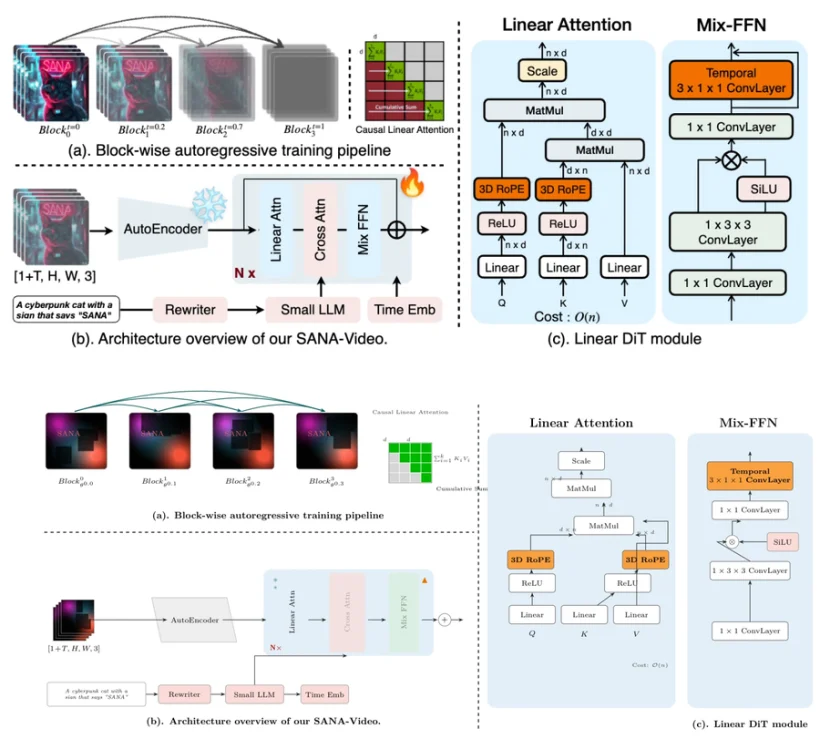
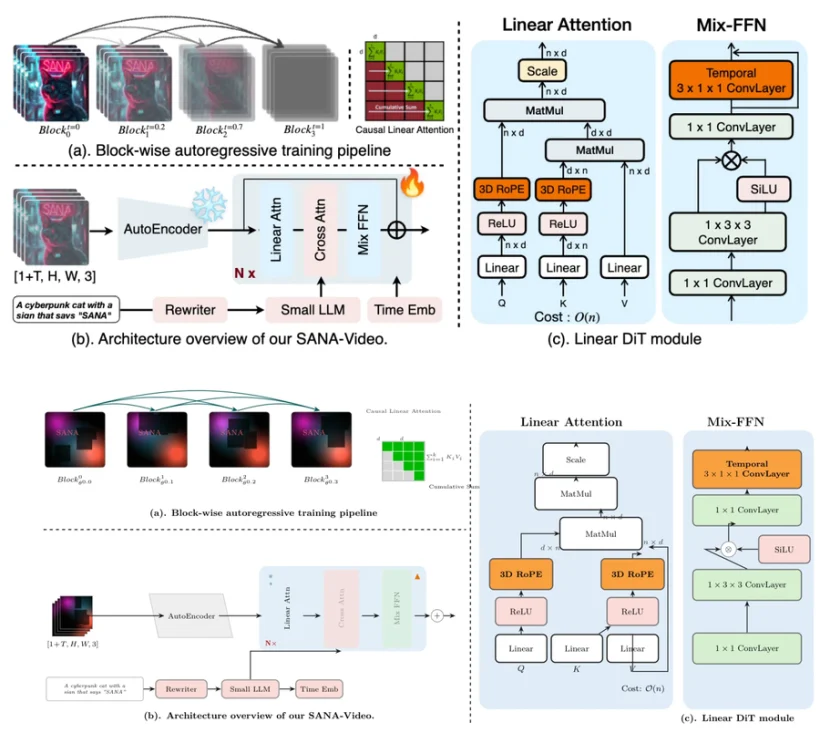
improve(replicas): 第十五轮 —— 06 样式升级（对齐原图的粗边/大字）
- cell 边框 .35pt→.7pt、颜色 black!55→black!70
- 箭头 .75pt→1.0pt，头部加大
- 标题/图例字号 \scriptsize→\footnotesize
- (b) 面板方块边框 .4→.8pt、圆角 2→3pt、字号 \tiny→\scriptsize、宽度 2.15→2.55cm
- 墨迹占比 0.169 → 0.186，AR 3.19（原图 3.21）

diff --git a/tools/figlab/reps_tikz.py b/tools/figlab/reps_tikz.py
@@ -221,18 +221,18 @@ def fig06() -> str:
     return r"""
 \begin{tikzpicture}[x=1cm, y=0.685cm]
 \tikzset{
-  cell/.style={draw=black!55, line width=.35pt, inner sep=0pt},
+  cell/.style={draw=black!70, line width=.7pt, inner sep=0pt},
   tok/.style={cell, fill=white},
   mask/.style={cell, fill=black!26},
   kv/.style={cell, fill=red!58!black},
   cmp/.style={cell, fill=green!68!black},
-  ttl/.style={font=\scriptsize, align=center},
-  arr2/.style={-{Stealth[length=1.7mm,width=1.2mm]}, line width=.75pt, draw=black!85},
-  brc/.style={decorate, decoration={brace, amplitude=4pt}, black!65},
+  ttl/.style={font=\footnotesize, align=center},
+  arr2/.style={-{Stealth[length=2.0mm,width=1.5mm]}, line width=1.0pt, draw=black!90},
+  brc/.style={decorate, decoration={brace, amplitude=5pt}, black!75},
 }
 
 % ================= 图例 =================
-\begin{scope}[shift={(1.15,7.35)}, every node/.style={font=\scriptsize}]
+\begin{scope}[shift={(1.15,7.35)}, every node/.style={font=\footnotesize}]
   \draw[cell, fill=white, minimum size=0.42cm] (0,0) rectangle (0.42,0.42);
   \node[anchor=west] at (0.52,0.21) {Token};
   \draw[cell, fill=black!26] (2.30,0) rectangle (2.72,0.42);
@@ -330,7 +330,7 @@ def fig06() -> str:
 \end{scope}
 
 % ================= (b) Block Causal Mix-FFN =================
-\begin{scope}[shift={(16.30,3.20)}]
+\begin{scope}[shift={(16.55,3.15)}]
   \node[ttl] at (1.35,3.95) {$\vdots$};
 
   \foreach \i/\name/\fc/\tc in {
@@ -341,20 +341,20 @@ def fig06() -> str:
       4/{Token$_0$}/fxgrn/black,
       5/{Token$_1$}/fxgrn/black}{
     \pgfmathsetmacro{\yy}{2.35-\i*0.62}
-    \node[draw=black!55, line width=.4pt, rounded corners=2pt, fill=\fc,
-          minimum width=2.15cm, minimum height=0.54cm, font=\tiny, text=\tc]
+    \node[draw=black!75, line width=.8pt, rounded corners=3pt, fill=\fc,
+          minimum width=2.55cm, minimum height=0.64cm, font=\scriptsize, text=\tc]
       at (1.35,\yy) {\name};
   }
   \node[ttl] at (1.35,-1.70) {$\vdots$};
 
   % 蓝色复用弧线
   \draw[arr2, draw=blue!75, line width=1.1pt]
-    (2.62,1.11) to[bend left=42] (2.62,0.49);
+    (2.75,1.11) to[bend left=42] (2.75,0.49);
 
-  \draw[brc] (2.92,2.66) -- (2.92,1.42) node[midway, right=4pt, font=\tiny] {Block$_1$};
-  \draw[brc] (2.92,1.18) -- (2.92,-1.28) node[midway, right=4pt, font=\tiny] {Block$_2$};
+  \draw[brc] (3.02,2.66) -- (3.02,1.42) node[midway, right=4pt, font=\scriptsize] {Block$_1$};
+  \draw[brc] (3.02,1.18) -- (3.02,-1.28) node[midway, right=4pt, font=\scriptsize] {Block$_2$};
 \end{scope}
-\node[font=\small] at (17.65,-0.95) {(b) Block Causal Mix-FFN};
+\node[font=\small] at (17.90,-1.05) {(b) Block Causal Mix-FFN};
 \end{tikzpicture}
 """
 
